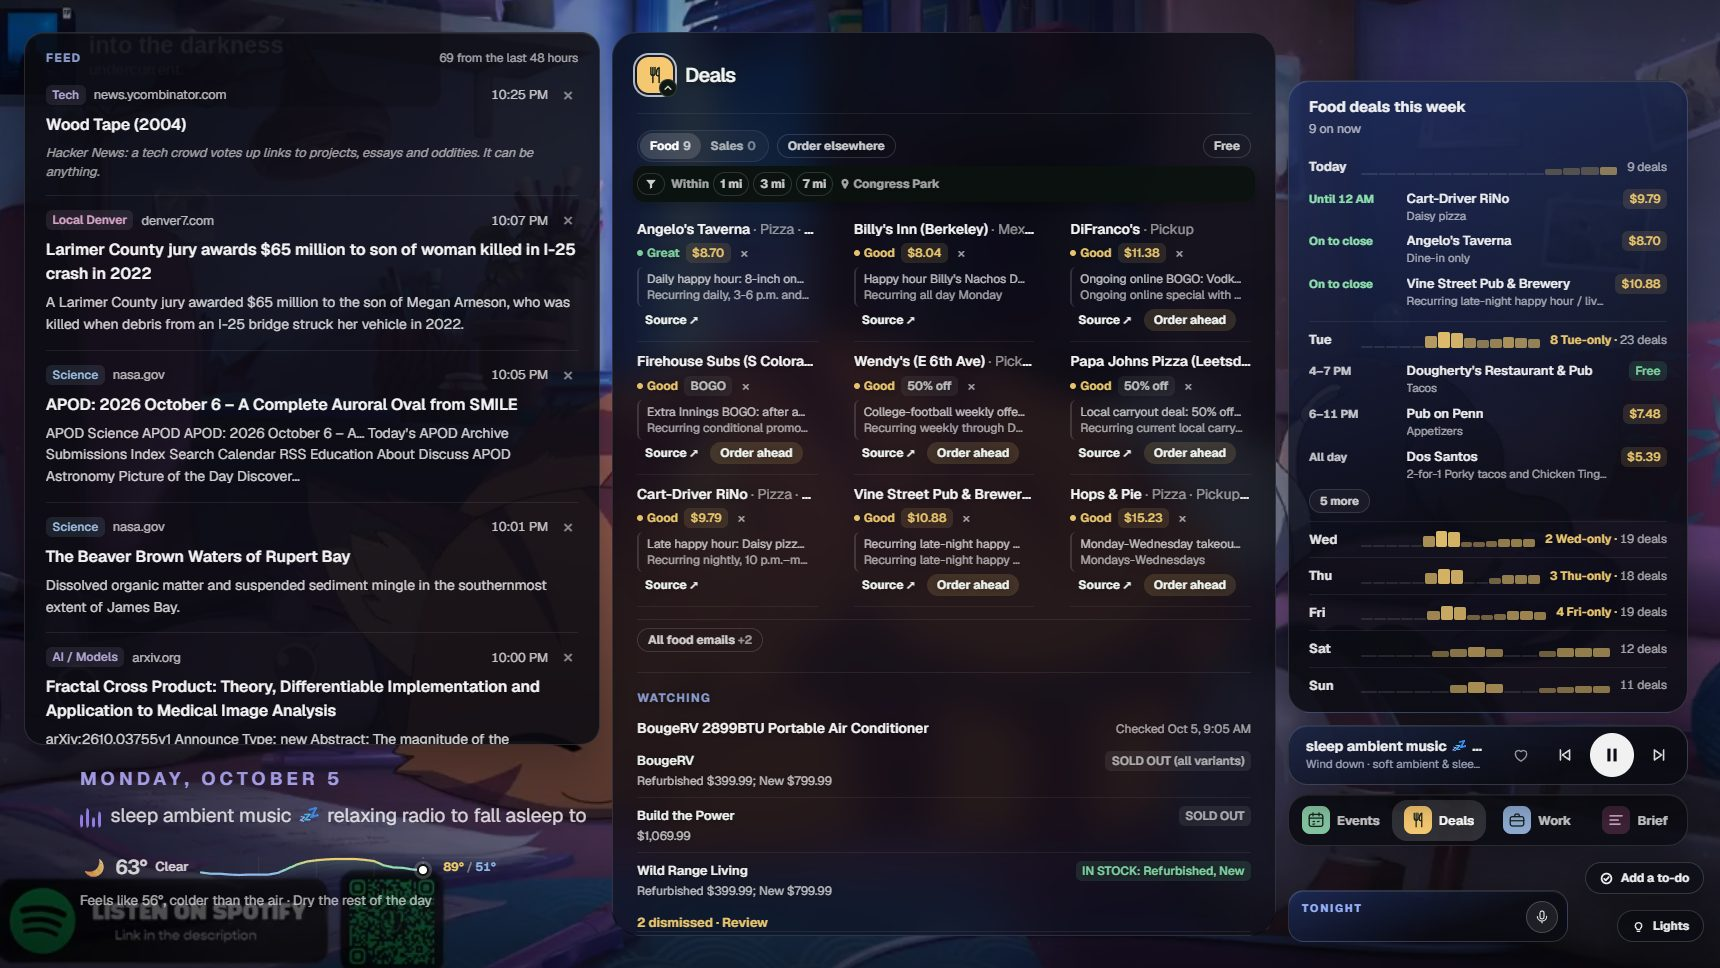
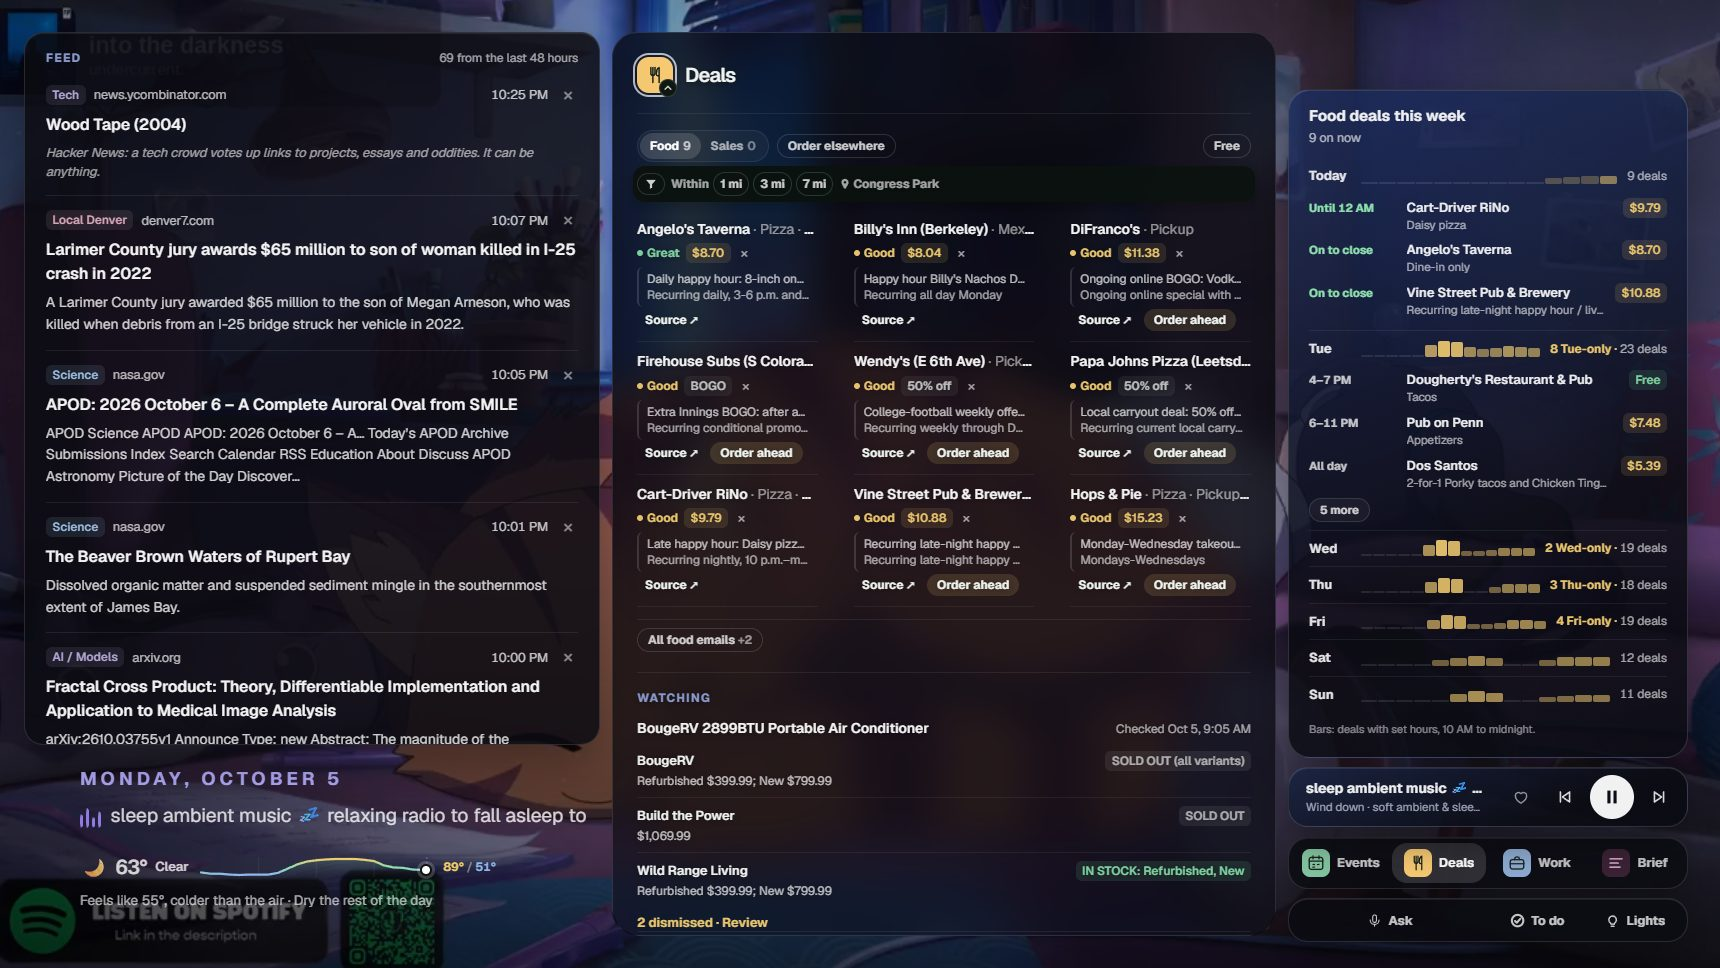
README: catch up with the app (cb85dac), 20 pictures

diff --git a/README.md b/README.md
@@ -37,7 +37,7 @@ Captured from the live dashboard on 2026-10-05, 1720 px wide on the PC and 390 p
 on the right is one column: the Now card, with the thought on top of it when it has something to say, then the music
 player, the lane icons and a tool bar (Ask, To do, Lights). Mail hangs from the top of that column while mail is waiting.
 
-![The bare wallpaper: the date, the weather, the Now card, the music player, the lane icons and the Now thought over the music video](docs/screenshots/wallpaper.jpg)
+![The bare wallpaper: the date, the weather, the Now card, the music player, the lane icons and the tool bar (Ask, To do, Lights) over the music video](docs/screenshots/wallpaper.jpg)
 
 **Wheel down for the feed, a key for a lane.** The wheel slides the feed in. Q and W open Events and Deals as one
 pane beside it, and Esc puts everything away.
@@ -87,9 +87,9 @@ up, by genre, each one playable. 2 and 3 move a pick through the rows.
 microphone, and resting the mouse on it (or B) brings up Hungry, What now? and Another; Lights opens the Hue controls,
 and To Do (4) opens the list with its add box.
 
-| The briefing (R) | The thought, opened |
+| The briefing (R) | Ask's actions |
 |---|---|
-| ![The daily briefing over the Now card: what needs him, what is coming up, the headlines](docs/screenshots/brief.jpg) | ![The thought block opened: Hungry, What now?, Another and the microphone](docs/screenshots/now-thought.jpg) |
+| ![The daily briefing over the Now card: what needs him, what is coming up, the headlines](docs/screenshots/brief.jpg) | ![The mouse resting on Ask: Hungry, What now? and Another above the tool bar](docs/screenshots/now-thought.jpg) |
 
 | Lights | To Do (4) |
 |---|---|
